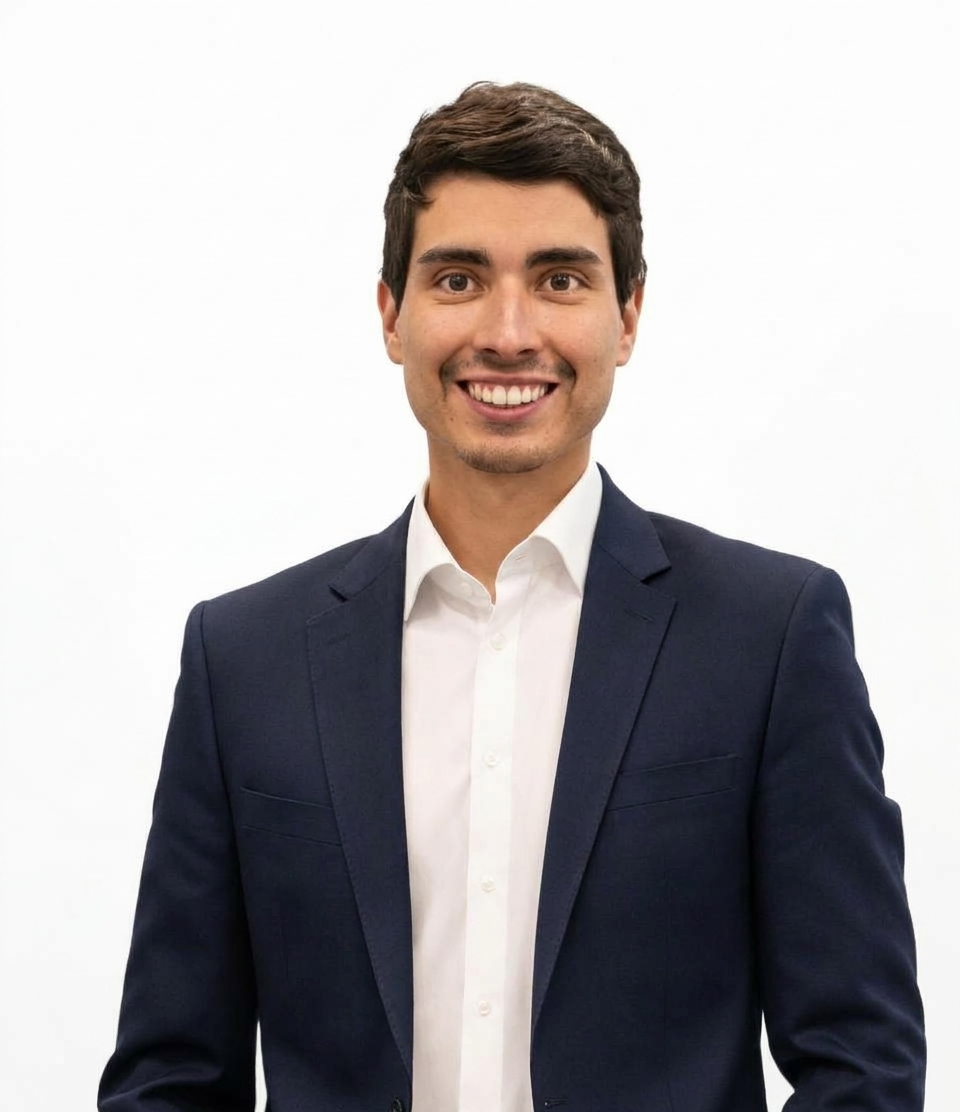
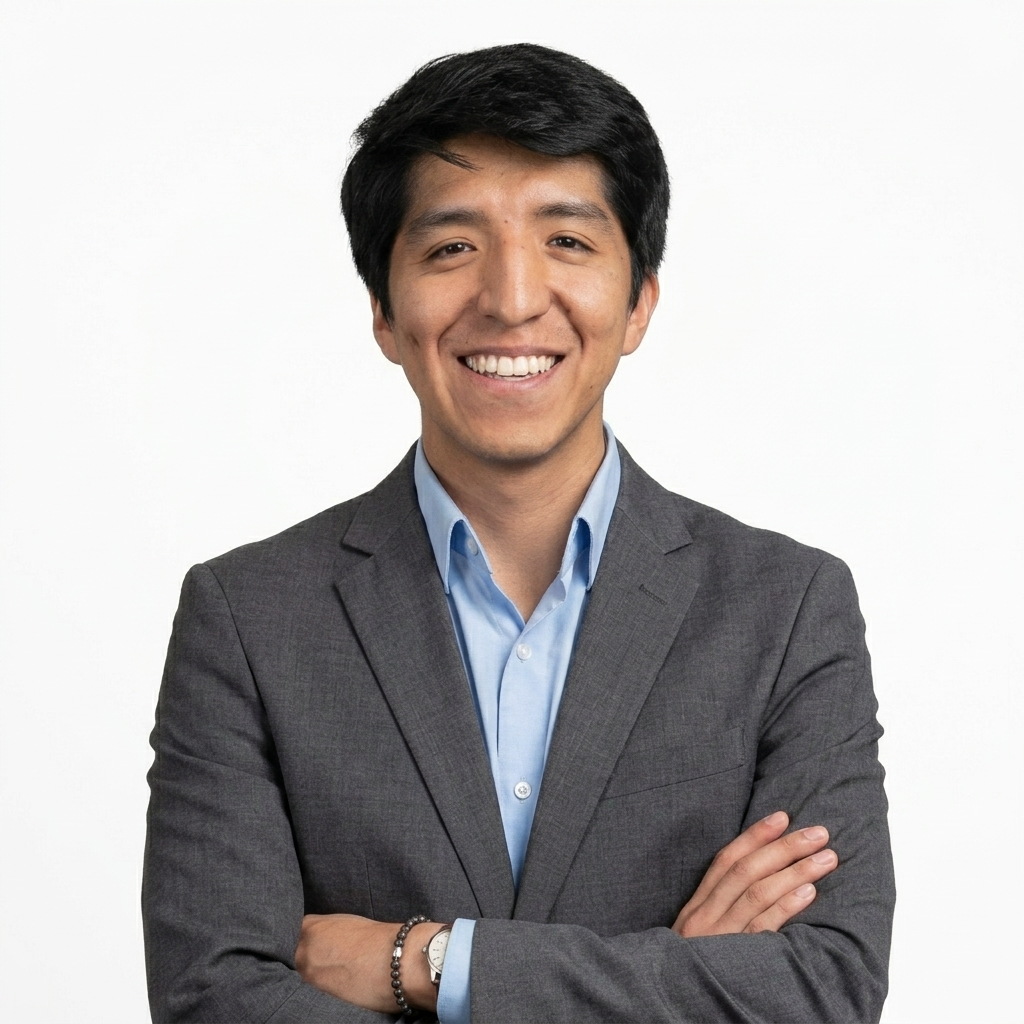
Corrige nombre y fotos de Javier Luna y Josue Quispe en el equipo consultor
- "Alfredo Luna" pasa a llamarse Javier Luna (nombre correcto) con su
  foto correspondiente
- Josue Quispe queda con su foto correcta (estaban intercambiadas)

diff --git a/soluciones.html b/soluciones.html
@@ -257,11 +257,11 @@
           </div>
           <div class="team-card team-card--example" tabindex="0" data-bio="Ingeniero Industrial con Máster en Sistemas Integrados de Gestión (SST, Calidad, Medio Ambiente y RSC), con experiencia en supervisión operativa, gestión documental y liderazgo de equipos.">
             <div class="team-photo team-photo--img" aria-hidden="true">
-              <img src="images/equipo-alfredo-luna.jpg" alt="" loading="lazy">
+              <img src="images/equipo-javier-luna.jpg" alt="" loading="lazy">
             </div>
-            <h4>Alfredo Luna</h4>
+            <h4>Javier Luna</h4>
             <p class="team-role">Especialista en SST y Gestión Ambiental</p>
-            <a class="team-linkedin" href="https://www.linkedin.com/in/javier-l-055a451b6" target="_blank" rel="noopener" aria-label="LinkedIn de Alfredo Luna">
+            <a class="team-linkedin" href="https://www.linkedin.com/in/javier-l-055a451b6" target="_blank" rel="noopener" aria-label="LinkedIn de Javier Luna">
               <svg viewBox="0 0 24 24" fill="currentColor"><path d="M6.94 5a2 2 0 1 1-4-.002 2 2 0 0 1 4 .002ZM7 8.48H3V21h4V8.48Zm6.32 0H9.34V21h3.94v-6.57c0-3.66 4.77-3.96 4.77 0V21H22v-7.93c0-6.17-7.06-5.94-8.68-2.91V8.48Z"/></svg>
             </a>
           </div>
